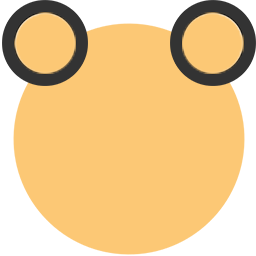
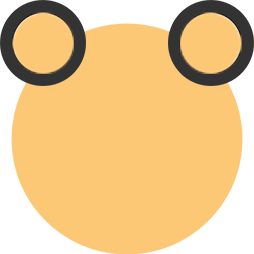
set player local origin to screen center

diff --git a/src/SuperPlayer.cpp b/src/SuperPlayer.cpp
@@ -34,12 +34,9 @@ void SuperPlayer::move (Map &map)
     }
 }
 
-void SuperPlayer::rotate(const sf::RenderWindow &window)
+void SuperPlayer::rotate (const sf::RenderWindow &window)
 {
     sf::Vector2i mouse_position = sf::Mouse::getPosition (window);
-    sf::Vector2f sprite_position = sprite.getPosition();
-
     double rot = std::atan2 (mouse_position.y - surviv::view_dim_Y / 2, mouse_position.x - surviv::view_dim_X / 2) * (180 / surviv::PI) + 90;
-
     sprite.setRotation (rot);
 }

diff --git a/src/Player.cpp b/src/Player.cpp
@@ -16,6 +16,9 @@ void Player::defaultInit()
     texture.setRepeated (false);
     sprite.setTexture (texture);
 
+    sf::FloatRect boundingBox = sprite.getLocalBounds();
+    sprite.setOrigin (boundingBox.width / 2, boundingBox.height / 2);
+
     Player::player_count++;
 }
 
